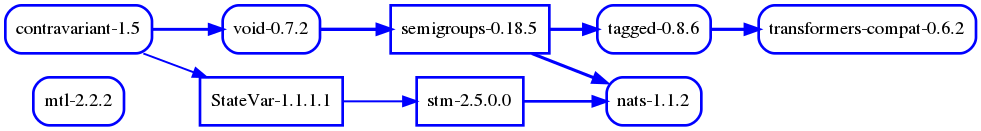
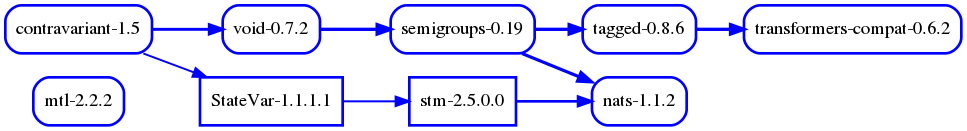
Update to GHC-8.6.4

diff --git a/README.md b/README.md
@@ -11,9 +11,9 @@ make build
 
 ## Dependency graphs
 
-### GHC-8.6.3
+### GHC-8.6.4
 
-![deps-8.6](https://raw.githubusercontent.com/phadej/acme-kmett/master/deps.8.6.3.png)
+![deps-8.6](https://raw.githubusercontent.com/phadej/acme-kmett/master/deps.8.6.4.png)
 
 ### GHC-8.4.4
 
